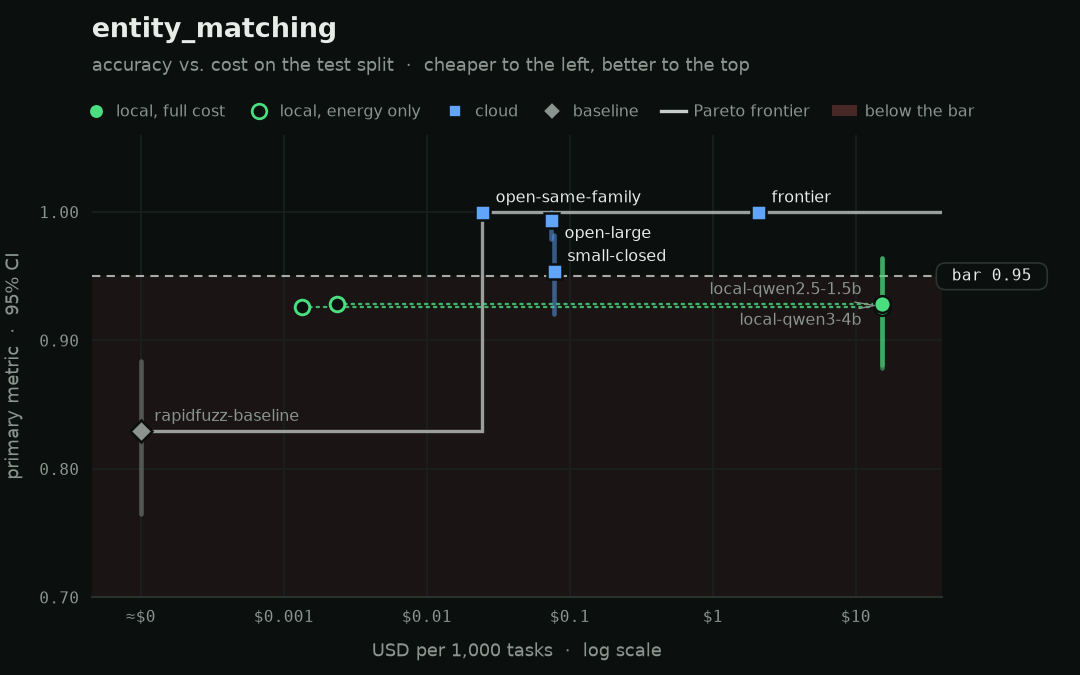
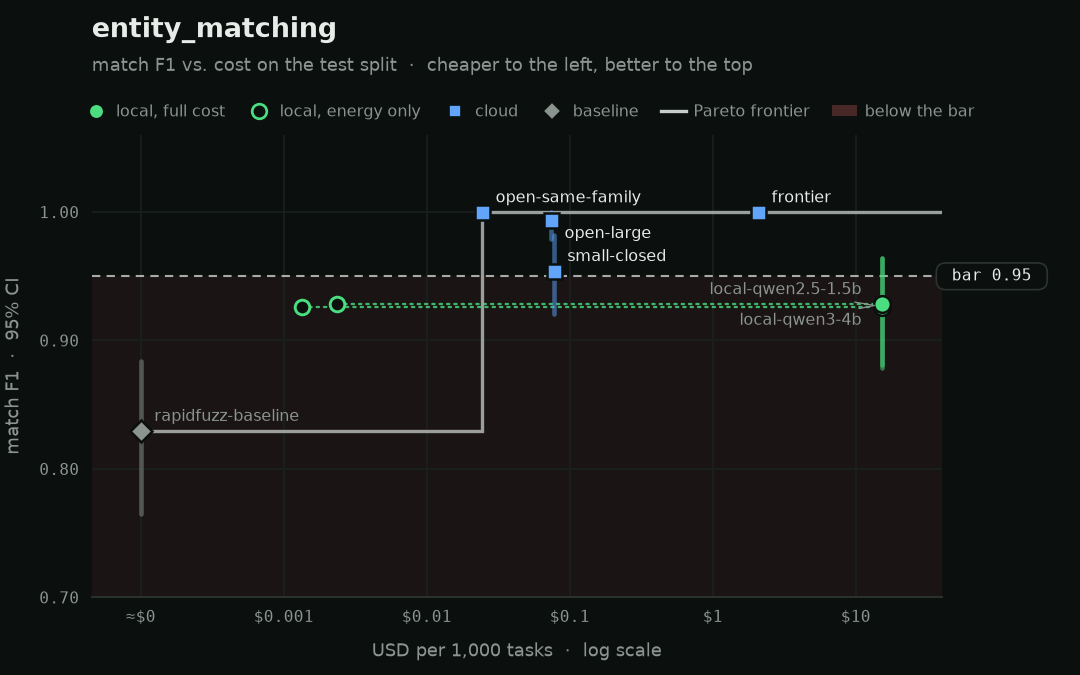
feat(report): name each task's metric on its chart

Changed region(s): [[0.3972, 0.0622, 0.7028, 0.1244], [0.0, 0.3733, 0.0306, 0.7156], [0.0917, 0.0622, 0.3667, 0.1244]]

diff --git a/src/local_enough/report/charts.py b/src/local_enough/report/charts.py
@@ -373,6 +373,16 @@ def _legend_handles(kinds: set[ChartKind], has_energy: bool, has_bar: bool, them
     return handles
 
 
+METRIC_LABELS = {
+    "accuracy": "accuracy",
+    "f1": "match F1",
+    "field_accuracy": "field accuracy",
+    "f2": "span F2",
+    "pass_rate": "judged pass rate",
+    "primary": "primary metric",
+}
+
+
 def frontier_chart(
     task: str,
     points: list[ChartPoint],
@@ -380,6 +390,7 @@ def frontier_chart(
     quality_bar: float | None,
     split_label: str = "test",
     theme: ChartTheme | ThemeName = "light",
+    metric: str = "primary",
 ) -> Figure:
     """One accuracy-vs-cost frontier chart: x = USD/1,000 tasks (log), y = primary metric with 95% CI.
 
@@ -493,14 +504,15 @@ def frontier_chart(
             )
 
     ax.set_xlabel("USD per 1,000 tasks  ·  log scale", color=th.muted, labelpad=8)
-    ax.set_ylabel("primary metric  ·  95% CI", color=th.muted, labelpad=8)
+    metric_label = METRIC_LABELS.get(metric, metric.replace("_", " "))
+    ax.set_ylabel(f"{metric_label}  ·  95% CI", color=th.muted, labelpad=8)
 
     left = _AXES_RECT["left"]
     fig.text(left, 0.945, task, ha="left", va="baseline", fontsize=13, fontweight="bold", color=th.text)
     fig.text(
         left,
         0.895,
-        f"accuracy vs. cost on the {split_label} split  ·  cheaper to the left, better to the top",
+        f"{metric_label} vs. cost on the {split_label} split  ·  cheaper to the left, better to the top",
         ha="left",
         va="baseline",
         fontsize=8.5,

diff --git a/src/local_enough/report/build.py b/src/local_enough/report/build.py
@@ -136,14 +136,17 @@ def build_report(
     written: list[Path] = []
     for task in data.tasks:
         block = data.results[task]
-        fig = charts.frontier_chart(task, block["chart_points"], quality_bar=block["bar"], split_label="test")
+        metric = str(block.get("primary_metric") or "primary")
+        fig = charts.frontier_chart(
+            task, block["chart_points"], quality_bar=block["bar"], split_label="test", metric=metric
+        )
         svg_by_task[task] = charts.inline_svg(fig)
         png_path = img_dir / f"{task}.png"
         charts.save_png(fig, png_path)
         written.append(png_path)
         # The same chart in the dark theme, for READMEs that switch images with prefers-color-scheme.
         dark = charts.frontier_chart(
-            task, block["chart_points"], quality_bar=block["bar"], split_label="test", theme="dark"
+            task, block["chart_points"], quality_bar=block["bar"], split_label="test", theme="dark", metric=metric
         )
         dark_path = img_dir / f"{task}-dark.png"
         charts.save_png(dark, dark_path)
